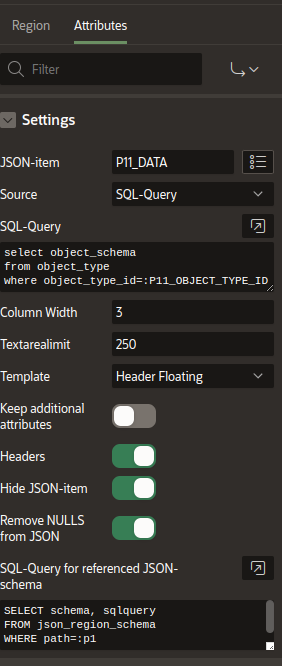
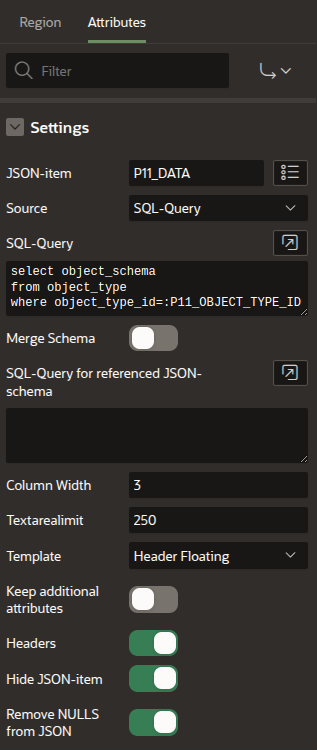
rel-0.9.7.3

diff --git a/docu/docu.md b/docu/docu.md
@@ -477,6 +477,18 @@ Configuration of the **JSON-region**
 
 The query **SQL-Query for referenced JSON-schema** is only needed, in case a table for the handling of JSON-schema-reference is installed (see below **Server references with /defs/xyz**).
 
+When setting **Merge Schema**, you can specify an additional **partial JSON-schema**, which is merged with the JSON-schema retrievd from the database. For example:
+```JSON
+{
+  "properties": {
+    "creditcard": {"pattern": "[0-9]{4}( [0-9]{4}){3}"},
+    "validity":   {},
+    "securitycode": {"apex": {"itemtype": "password"}}
+  }
+}
+```
+adds the attribute **pattern** to the property creditcard and changes the securitycode item a password-item without displaying the entered data. It also fixes the order of the 3 properties **creditcard**, **validity**, **securitycode**, even the JSON-schema in the database returns another order.
+
 ### Generated JSON-schema as a base for a fixed JSON-schema
 
 With **No fixed schema** the JSON-schema will be generated based on the JSON-data. This could be used as a base for further improvements (adding other items, change the itemtype for properties, ...). This JSON-schema could be extracted from the Browser-console.
@@ -683,9 +695,9 @@ WHERE c.table_name='TAB' AND column_name='JSON_DATA'
 
 This retrievs the JSON-schema for column **TAB.JSON_DATA** from the data dictionary, as long as the constraint-text is less than 4000 char long (the full text isin a LONG-column, which is not easy to process). So changing this VALIDATE setting will automatically adopt the layout of the json-region in your APEX-UI.
 
-#### Relational-Duality-views
+#### JSON-Duality-views
 
-The JSON returned from a relational-duality view contains the Oracle-specific property "_metadata", which is be ignored and not displayed by the plugin.
+The JSON returned from a JSON-duality view contains the Oracle-specific property "_metadata", which is be ignored and not displayed by the plugin.
 
 ```JSON
 {
@@ -783,9 +795,11 @@ The result contains some Oracle-specific extensions of a JSON-schema.
 }
 ```
 When generating the UI the Oracle-specific attributes with names starting with "_" are ignored. The property "dbPrimaryKey" is ignored which is unfortunately part of "properties": {...}.
+Starting with Oracle 23.7 the JSON-schema looks a little bit different. For example it uses **oneOf** for not required properties and **"extendedType": "array"** for arrays.
 
-The "Lost Update Detection" of APEX does not work with the relational-duality-views. This is caused by the property **_metadata.asof**, which changes on each select (it's the current SCN of the database), so the checksum of the data changes per select.
-The Workarround: **switch off "Prevent Lost Updates"**
+The "Lost Update Detection" of APEX does not work with the JSON-duality-views. This is caused by the property **_metadata.asof**, which changes on each select (it's the current SCN of the database), so the checksum of the data changes per select.
+
+The Workarround: **switch off "Prevent Lost Updates"**.
 
 #### Validation of JSON-column with variable JSON-schema
 

diff --git a/CHANGELOG.md b/CHANGELOG.md
@@ -1,12 +1,15 @@
-# 0.9.7.3 2024-02-28
+# 0.9.7.3 2024-03-06
 
 ## New Features
 
+  - #182 Merge generate JSON-schema with fixed JSON-schema
   - #184 Support of 23ai COLLECTION TABLE/VIEW
-  - #185 Support of universal-scheme style Redwood-light
+  - #185 Support of universal-scheme style **Redwood-light**
 
 ## Fixed Isses
 
+  - #158 "additionalProperties": true does not remove data of conditional-schema expressions
+  - #186 Oracle 23.7: JSON-schema of Duality-view with "optional" items now uses "oneOf" 
 
 # 0.9.7.2 2024-01-25
 
